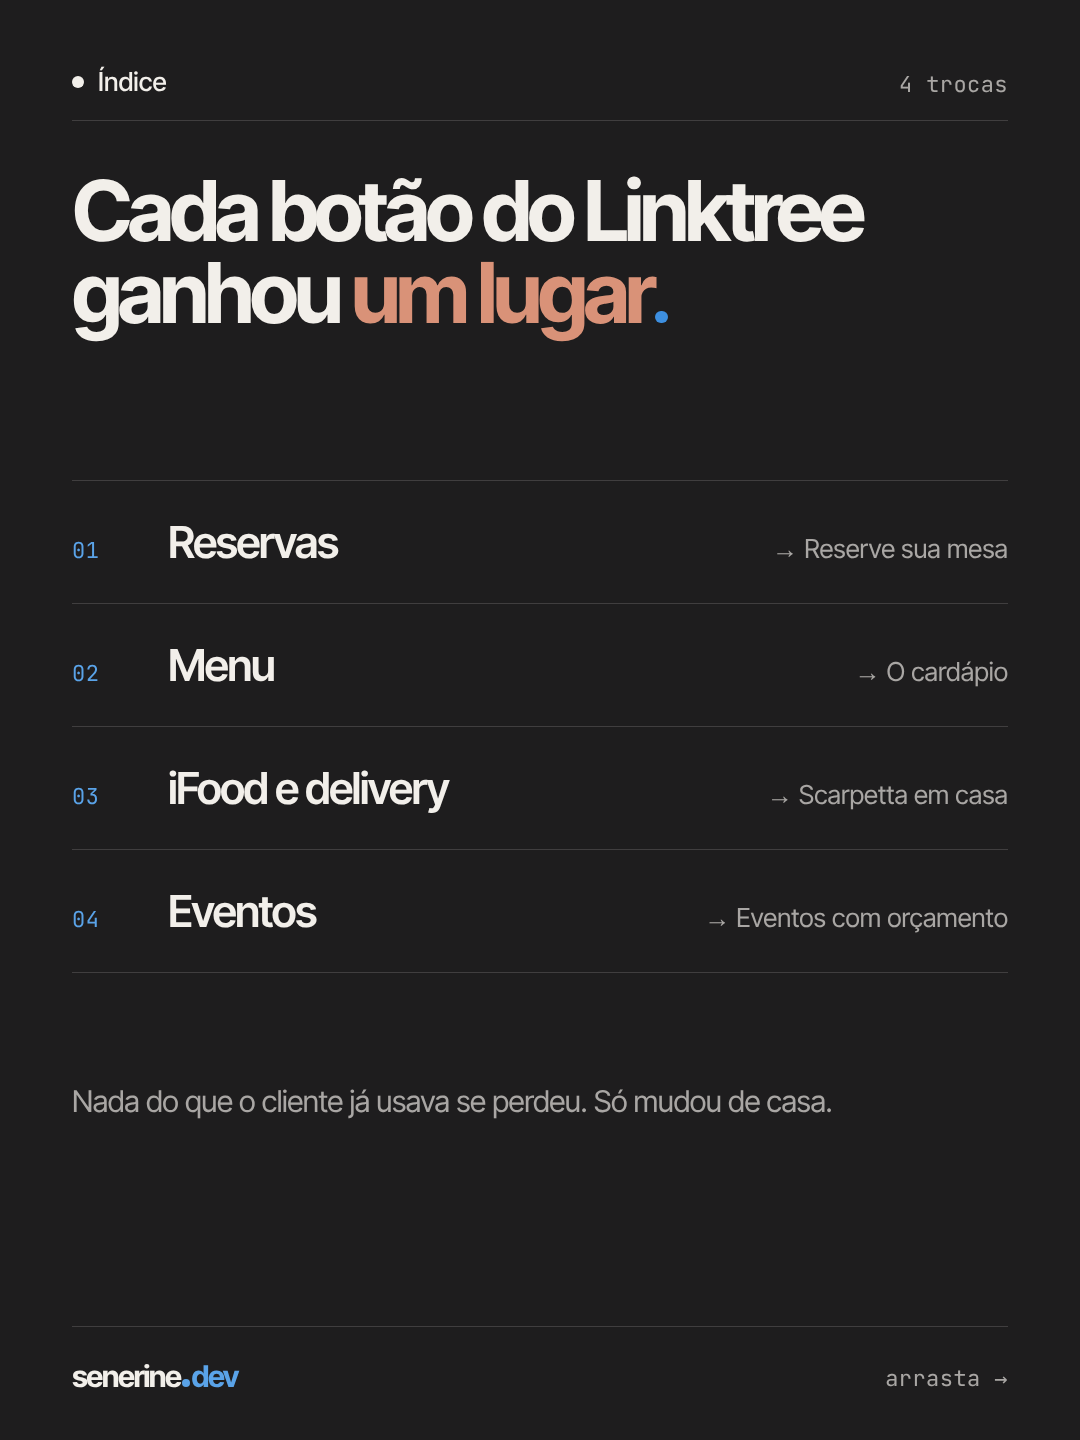
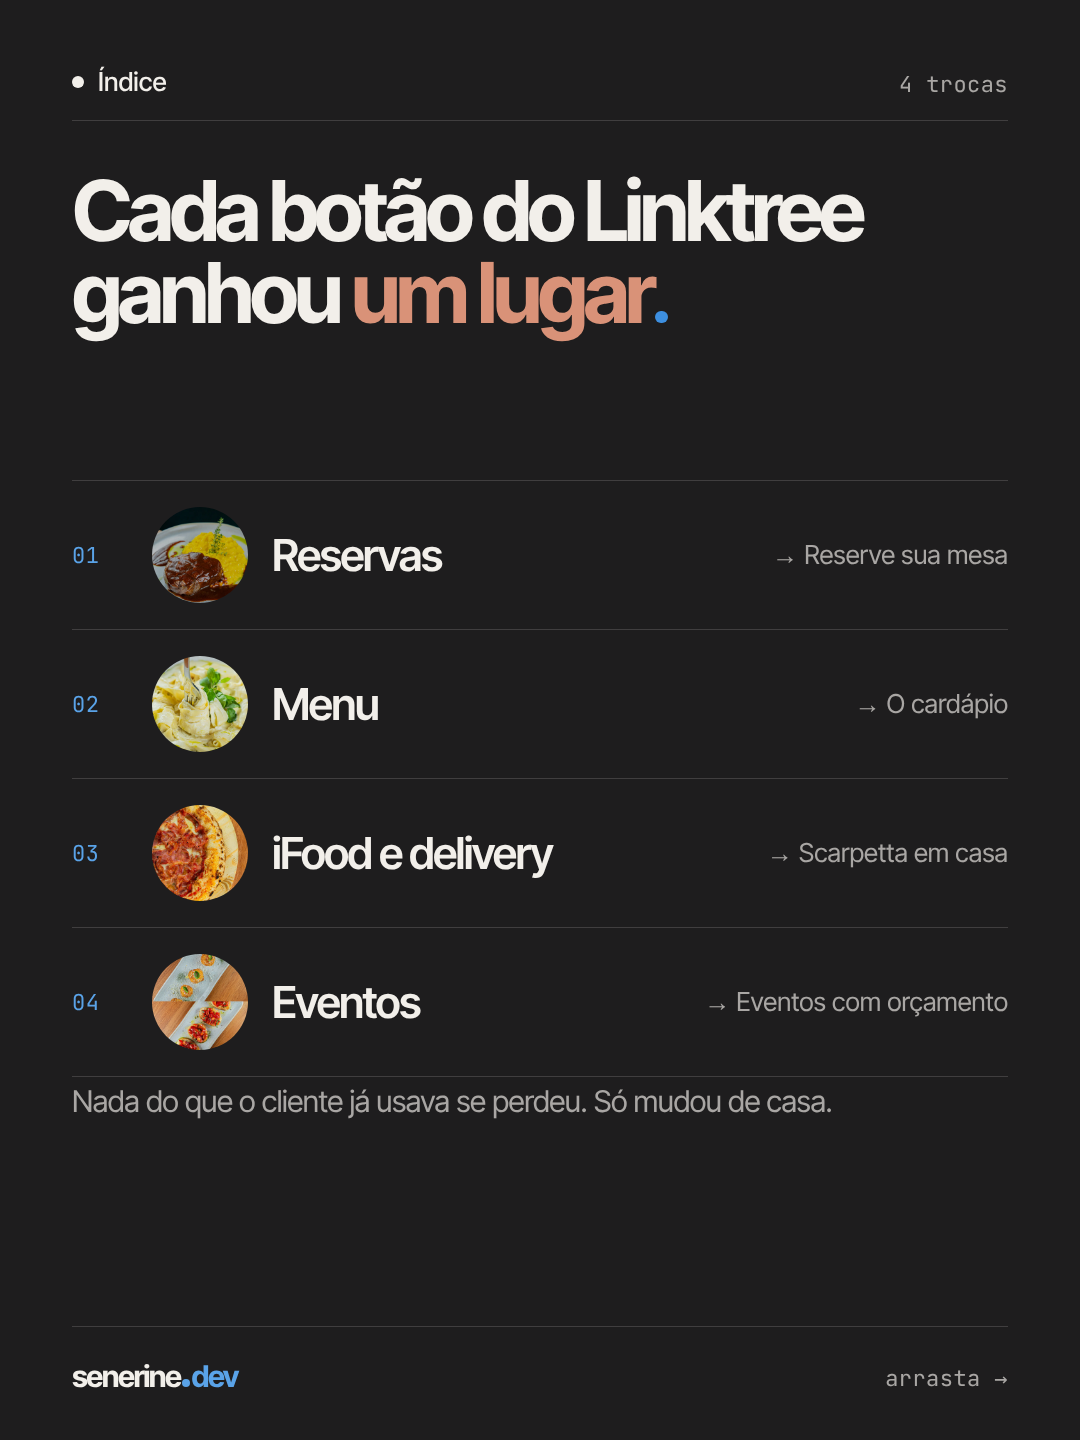
Case Scarpetta com as fotos dos pratos de fundo, computador e celular juntos
Claude-Session: https://claude.ai/code/session_01P2gMEPFx4h5Snu2b9VrmuT

diff --git a/modelos/posts/scarpetta-case.py b/modelos/posts/scarpetta-case.py
@@ -32,7 +32,12 @@ body { width:1080px; background:#000; font-family:"Inter Tight",sans-serif; }
 .scr img { position:absolute; left:0; display:block; }
 .ui { font-family:"Inter Tight",sans-serif; }
 .scr img { width:100%; top:0; }
-.laptop { z-index:2; }
+.laptop { z-index:2; filter:drop-shadow(0 40px 50px rgba(0,0,0,.45)); }
+.foto { position:absolute; inset:0; z-index:0; }
+.foto img { width:100%; height:100%; object-fit:cover; display:block; }
+.foto::after { content:""; position:absolute; inset:0; background:linear-gradient(180deg, rgba(10,43,31,.30) 0%, rgba(10,43,31,.55) 60%, rgba(10,43,31,.85) 100%); }
+.prato { border-radius:50%; overflow:hidden; }
+.prato img { width:100%; height:100%; object-fit:cover; display:block; }
 .laptop .tela { position:relative; background:#0b0b0b; border-radius:20px 20px 6px 6px; padding:14px 14px 18px; outline:2px solid rgba(255,255,255,.08); }
 .laptop .tela img { display:block; width:100%; border-radius:6px; }
 .laptop .base { position:relative; height:26px; margin:0 -48px; border-radius:2px 2px 18px 18px; background:linear-gradient(#cfd2d6,#8e9298); }
@@ -80,6 +85,16 @@ def laptop(img, w=840, top=40):
     return f'<div class="laptop" style="left:{(936 - w) // 2}px;top:{top}px;width:{w}px"><div class="tela"><img src="{C}desktop-{img}.jpg"></div><div class="base"></div></div>'
 
 
+def fundo(foto):
+    return f'<div class="foto"><img src="{C}fotos/{foto}.webp"></div>'
+
+
+def combo(desk, mob, foto, w=720):
+    """Foto do prato de fundo, o site no computador e a mesma parte no celular, por cima."""
+    m = celular(mob, 680, 170, 200, "filter:drop-shadow(0 30px 40px rgba(0,0,0,.5))") if mob else ""
+    return fundo(foto) + laptop(desk, w, 60).replace(f"left:{(936 - w) // 2}px", f"left:{(936 - w) // 2 - (60 if mob else 0)}px") + m
+
+
 def celular(src, left, top, w, extra=""):
     return f'<div class="phone" style="left:{left}px;top:{top}px;width:{w}px;{extra}"><img src="{C}{src}"></div>'
 
@@ -88,15 +103,15 @@ out = [HEAD.replace('href="../../fontes/fontes.css"', 'href="../../fontes/fontes
 
 # 1 · capa: o antes e o depois lado a lado no cartão verde
 out.append(shell(1, "Case · Scarpetta Cucina", "senerine.dev", f"""<div class="card" style="background:{VERDE}">
-    {laptop("topo", 820, 40)}{celular("linktree-sem-cidade.png", 30, 300, 210, "filter:grayscale(1);rotate:-6deg")}
+    {combo("topo", "site.webp", "pizza-mesa")}
     <div class="band"><span class="mono">Cliente real</span><span>Cozinha italiana afetiva.</span></div></div>
   <h2 class="t">Do Linktree ao site<br><em>com a cara da casa</em><span class="dot"></span></h2>
   <p class="p">Como o link da bio da Scarpetta virou um site com cardápio, reserva e o salão.</p>"""))
 
 # 2 · índice: onde cada botão foi morar
-items = [("Reservas", "Reserve sua mesa"), ("Menu", "O cardápio"), ("iFood e delivery", "Scarpetta em casa"), ("Eventos", "Eventos com orçamento")]
-rows = "".join(f"""<div style="display:grid;grid-template-columns:96px 1fr auto;align-items:baseline;padding:34px 0;border-top:1px solid var(--line)">
-  <span class="mono" style="color:#5aa3e8">{i + 1:02d}</span><span style="font-size:44px;font-weight:600;letter-spacing:-.04em">{a}</span><span style="font-size:26px;color:var(--muted)">→ {b}</span></div>""" for i, (a, b) in enumerate(items))
+items = [("Reservas", "Reserve sua mesa", "medaglioni-quadrado"), ("Menu", "O cardápio", "fettuccine-garfo"), ("iFood e delivery", "Scarpetta em casa", "pizza-peperoni-detalhe"), ("Eventos", "Eventos com orçamento", "arancini-bruschetta")]
+rows = "".join(f"""<div style="display:grid;grid-template-columns:80px 120px 1fr auto;align-items:center;padding:26px 0;border-top:1px solid var(--line)">
+  <span class="mono" style="color:#5aa3e8">{i + 1:02d}</span><span class="prato" style="position:relative;width:96px;height:96px"><img src="{C}fotos/{f}.webp"></span><span style="font-size:44px;font-weight:600;letter-spacing:-.04em">{a}</span><span style="font-size:26px;color:var(--muted)">→ {b}</span></div>""" for i, (a, b, f) in enumerate(items))
 out.append(shell(2, "Índice", "4 trocas", f"""<h2 class="t" style="top:170px">Cada botão do Linktree<br>ganhou <em>um lugar</em><span class="dot"></span></h2>
   <div style="left:72px;right:72px;top:480px;border-bottom:1px solid var(--line)">{rows}</div>
   <p class="p" style="top:1080px">Nada do que o cliente já usava se perdeu. Só mudou de casa.</p>"""))
@@ -113,12 +128,14 @@ trocas = [
     ("Peça pelo iFood · delivery", "delivery", "Os pedidos<br><em>num lugar só</em>", "O iFood e o delivery próprio lado a lado, com as mesmas massas e pizzas."),
     ("Eventos", "eventos", "Eventos<br><em>com orçamento</em>", "As ocasiões, como o menu é servido e o pedido de orçamento por WhatsApp ou e-mail."),
 ]
+MOB = {"reserva": "reserva.webp", "cardapio": "cardapio.webp", "delivery": None, "eventos": "eventos.webp", "salao": "salao.webp"}
+FOTO = {"reserva": "medaglioni-quadrado", "cardapio": "fettuccine-garfo", "delivery": "pizza-peperoni-detalhe", "eventos": "arancini-bruschetta", "salao": "forno"}
 for i, (de, img, t, p) in enumerate(trocas):
-    arte = laptop(img)
+    arte = combo(img, MOB[img], FOTO[img])
     out.append(detail(4 + i, "Depois", f"{i + 1:02d} / 04", arte, "No Linktree", f"o botão “{de}”", t, p))
 
 # 8 · o que o linktree não mostrava
-out.append(detail(8, "Depois", "bônus", laptop("salao"), "Antes",
+out.append(detail(8, "Depois", "bônus", combo("salao", "salao.webp", "forno"), "Antes",
     "Nenhuma foto do salão nem dos pratos.", "O salão<br><em>no meio da mata</em>",
     "As fotos do lugar, o menu executivo da semana e os pratos, antes do primeiro contato.", NOITE))
 
@@ -130,13 +147,15 @@ rows = "".join(f"""<div style="display:grid;grid-template-columns:96px 1fr;align
 out.append(shell(9, "Ficha técnica", "Scarpetta", f"""<div style="left:72px;right:72px;top:156px;height:1130px;border-radius:28px;background:{VERDE};color:#efe5c8;padding:60px 56px">
     <p class="mono" style="color:#a9c99a;letter-spacing:.06em;text-transform:uppercase">React · TypeScript · Vite · Motion</p>
     <h2 style="margin-top:26px;font-size:80px;font-weight:700;line-height:.98;letter-spacing:-.055em">Decisões<br>do projeto<span class="dot"></span></h2>
-    <div style="margin-top:50px;border-bottom:1px solid rgba(239,229,200,.22)">{rows}</div></div>"""))
+    <div style="margin-top:50px;border-bottom:1px solid rgba(239,229,200,.22)">{rows}</div>
+    <div style="position:absolute;left:56px;right:56px;bottom:56px;display:grid;grid-template-columns:repeat(4,1fr);gap:16px">{"".join(f'<div style="aspect-ratio:1;border-radius:14px;overflow:hidden"><img src="{C}fotos/{f}.webp" style="width:100%;height:100%;object-fit:cover;display:block"></div>' for f in ["pizza-mesa", "risotto-gamberi", "lasagna-detalhe", "budino"])}</div></div>"""))
 
 # 10 · contato, como o bloco do site
-out.append(shell(10, "Contato", "senerine.dev", """<img src="../../elementos/senerine/leonardo-ponto.webp" style="left:72px;top:250px;width:168px;height:168px;border-radius:50%">
+out.append(shell(10, "Contato", "senerine.dev", f"""<img src="../../elementos/senerine/leonardo-ponto.webp" style="left:72px;top:250px;width:168px;height:168px;border-radius:50%">
   <p style="left:268px;top:300px;font-size:30px;font-weight:600;letter-spacing:-.03em">Leonardo Senerine</p><p class="mono" style="left:268px;top:344px;color:var(--muted)">quem faz o senerine.dev</p>
   <h2 class="t" style="top:500px;font-size:96px">O seu link da bio<br>também pode<br><em>virar site</em><span class="dot"></span></h2>
-  <p class="p" style="top:860px">Me conta da marca e do que ela precisa.<br>Quem responde sou eu.</p>""", swipe="salva esse"))
+  <p class="p" style="top:860px">Me conta da marca e do que ela precisa.<br>Quem responde sou eu.</p>
+  <div style="left:72px;right:72px;top:1010px;height:280px;border-radius:28px;overflow:hidden"><img src="{C}fotos/pizza-peperoni-detalhe.webp" style="width:100%;height:100%;object-fit:cover;display:block"></div>""", swipe="salva esse"))
 
 out.append("</body></html>")
 open("scarpetta-case.html", "w").write("".join(out))

diff --git a/formatos/post.md b/formatos/post.md
@@ -46,7 +46,7 @@ Renderizar: `node modelos/render.mjs <html> <saida> 1080 1440 <n>` (acrescente `
 - Grade rígida: tudo alinhado na mesma margem e nas mesmas alturas.
 
 ## Não funciona
-- **Case de cliente bagunçado** (Scarpetta, primeira versão): celulares girados, rabiscos, botões riscados e notas à mão espalhadas: "muito bagunçado, deixe mais bonitinho". Mesmo a versão limpa não bastou: **case de cliente usa o padrão dos primeiros posts / do portfólio** (`scarpetta-case.py`, base `senerine-capturas.py`): fundo escuro da senerine, cabeçalho com rótulo e fólio, cartão com a captura real na cor da casa (**o site num computador**, captura 1440x900 do site rodando local; o celular só pro Linktree/antes: "muito simples, aumente o plano do site, coloque num computador"), faixa azul com rótulo, título com o ponto, texto, rodapé com logo; índice numerado, ficha técnica com decisões e o bloco de contato com a foto no ponto.
+- **Case de cliente bagunçado** (Scarpetta, primeira versão): celulares girados, rabiscos, botões riscados e notas à mão espalhadas: "muito bagunçado, deixe mais bonitinho". Mesmo a versão limpa não bastou: **case de cliente usa o padrão dos primeiros posts / do portfólio** (`scarpetta-case.py`, base `senerine-capturas.py`): fundo escuro da senerine, cabeçalho com rótulo e fólio, cartão com a captura real na cor da casa (**o site num computador**, captura 1440x900 do site rodando local; o celular só pro Linktree/antes: "muito simples, aumente o plano do site, coloque num computador"), faixa azul com rótulo, título com o ponto, texto, rodapé com logo. **Sem sal** com o computador sozinho: o cartão leva a **foto dos pratos do cliente de fundo**, o computador e o celular com a mesma seção por cima, e fotos dos pratos no índice, na ficha técnica e no contato; índice numerado, ficha técnica com decisões e o bloco de contato com a foto no ponto.
 - Copiar a base de outro designer sem adaptar (as versões "Pixel" e "Nexora" foram "bem ruim" e "ruizinho").
 - **Cara de IA**: elementos desalinhados, cartões com ícone, enfeite sem função.
 - Slide que não acrescenta (o slide da "aba" foi cortado).

diff --git a/elementos/README.md b/elementos/README.md
@@ -71,4 +71,4 @@ Capturas reais do senerine.dev (celular @3x, 390 px de largura) e a foto do Leon
 Memes e músicas usados nos reels ficam em `elementos/terceiros/`, que o `.gitignore` não envia (direitos de terceiros). Peça os arquivos de novo ao Leonardo se precisar.
 
 ## clientes/
-Capturas reais dos sites de clientes, por pasta. `scarpetta/`: `desktop-*.jpg` (o site no computador, 1440x900 a 2x, rodando o repositório com `npx vite`), telas do site no celular (da página de proposta do repositório Scarpetta) e o Linktree antigo com a cidade apagada (`linktree-sem-cidade.png`). Não usar `visite` nem a captura original do Linktree: mostram a cidade.
+Capturas reais dos sites de clientes, por pasta. `scarpetta/`: `fotos/` (pratos e forno do site deles, pra fundo de cartão), `desktop-*.jpg` (o site no computador, 1440x900 a 2x, rodando o repositório com `npx vite`), telas do site no celular (da página de proposta do repositório Scarpetta) e o Linktree antigo com a cidade apagada (`linktree-sem-cidade.png`). Não usar `visite` nem a captura original do Linktree: mostram a cidade.
